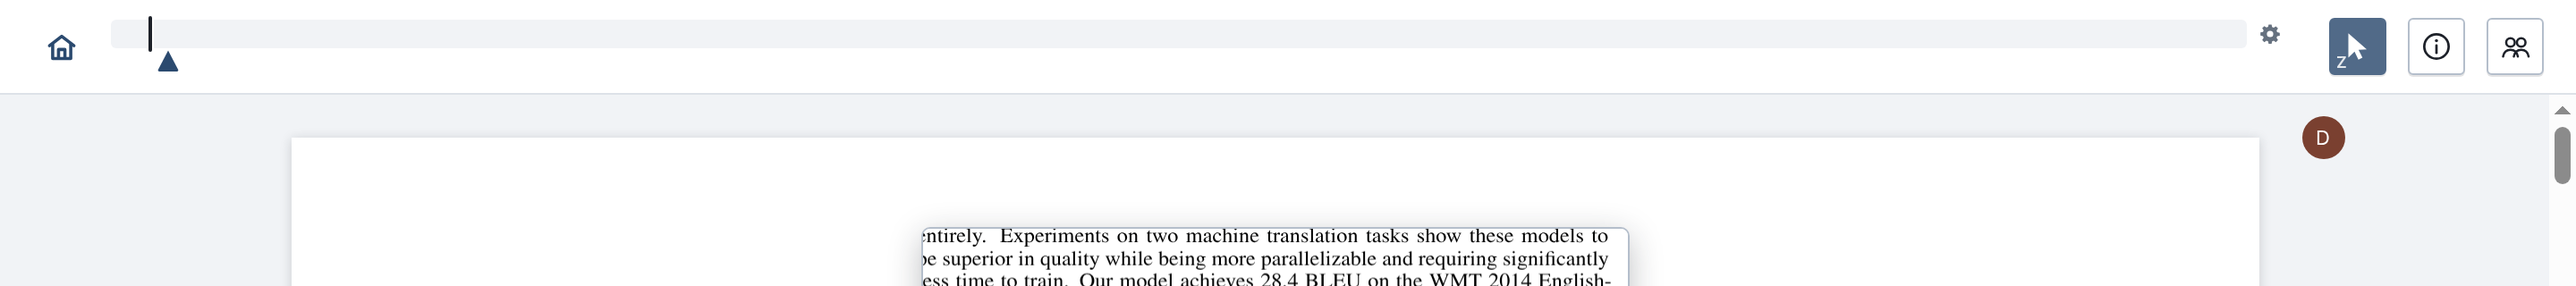
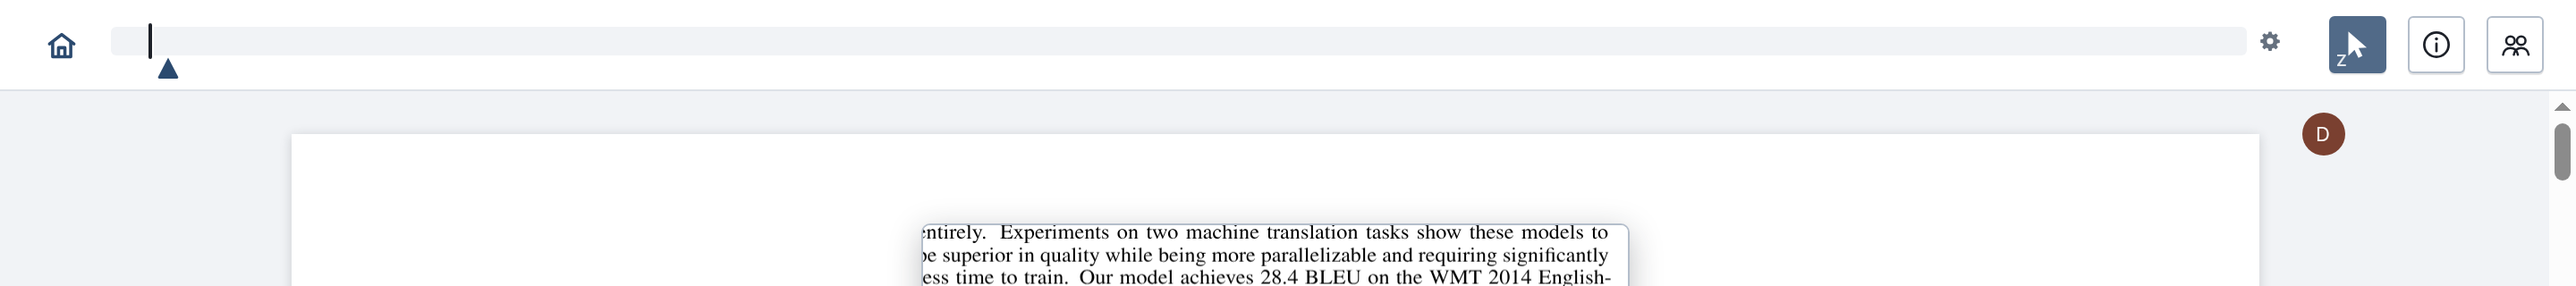
Viewer bar: 5px above and below, not 10, in place of collapsing the tick lane
The navigator's empty upper lane is back as it was; the bar's own vertical
padding is halved instead.

Claude-Session: https://claude.ai/code/session_01PQZzMVaiJTYkEYsSMrH2Bm

diff --git a/viewer/src/styles.js b/viewer/src/styles.js
@@ -179,6 +179,10 @@ ${fileDropStyles}
   position: sticky;
   top: 0;
   flex: none;
+  /* Half the shared bar's 10px above and below: the navigator is already
+     the bar's tallest control and leaves its own room over the strip. Papol
+     macOS keeps its own title-bar padding. */
+  padding-block: 5px;
 }
 
 /* In Papol macOS the bar is the window's title bar: the same height as
@@ -219,9 +223,11 @@ ${fileDropStyles}
   /* Three lanes at one scale, and all the room the desktop title bar has
      to give (40px): the subsections' ticks over the strip, the strip, and
      the anchors under it. Strip to lower lane is six parts to
-     five. An empty upper lane takes no room (below): kept, it was a
-     blank band over the strip that made the bar tall at the top and left
-     the home button and the paper's buttons looking low beside it. */
+     five. The upper lane is kept even when
+     it is empty, because it is also what sets the strip a little below
+     centre: the strip is a solid band and the marks under it are specks on
+     the bar's white, so a pair centred by the ruler reads as sitting
+     high. */
   --nav-top: 10px;
   --nav-strip: 16px;
   --nav-lane: 14px;
@@ -239,10 +245,10 @@ ${fileDropStyles}
 }
 
 /* What is centred in the bar is what can be seen. A lane with nothing in it
-   is not seen, so it takes no room: no ticks, no upper lane; no marks, no
-   lower lane; and with neither the box is only the strip, centred exactly. */
+   is not seen, so it takes no room: no marks, no lower lane; and with
+   neither marks nor ticks the box is only the strip, centred exactly. */
 .navigator-frame.unmarked { --nav-lane: 0px; }
-.navigator-frame.unticked { --nav-top: 0px; }
+.navigator-frame.unmarked.unticked { --nav-top: 0px; }
 .navigator-frame.unmarked .navigator-lane { display: none; }
 
 /* A groove, so the strip reads as one object on the bar's white ground and
@@ -1563,11 +1569,7 @@ body:has(.pages.with-margin) .feedback-button { right: auto; left: 20px; }
    just that measured slower, because text beside the view still repaints.
    Selection and search highlights come back once the view is still. */
 .pages.zooming .text-host { visibility: hidden; }
-/* The selection is shown by the band App paints under it (selectionInk.js),
-   from the first movement of a drag to after the browser's selection is let
-   go. The browser's own paint on top made two shades while dragging, and a
-   math face's span shaded lines above and below its own. */
-.textLayer ::selection { background: transparent; }
+.textLayer ::selection { background: rgba(43, 74, 111, 0.3); }
 .provenance-box {
   position: absolute;
   z-index: 3;
@@ -2073,37 +2075,6 @@ button.ref-link:disabled { cursor: default; opacity: 0.6; }
    bigger than the rule is printed. */
 .paper-clip.telescope { z-index: 20; min-width: 0; min-height: 0; cursor: pointer; }
 .paper-clip.telescope:active { cursor: pointer; }
-/* Where more than one rule goes by the name, each is tagged with its page,
-   on a tab over its top edge. */
-/* The tab and its rule are one piece: the tab stands on the rule's square
-   top-left corner, over the stretch of its top edge it covers. */
-.paper-clip.telescope.tagged { border-top-left-radius: 0; }
-.telescope-tag {
-  position: absolute;
-  z-index: 1;
-  bottom: calc(100% - 1px);
-  left: -1px;
-  padding: 2px 7px;
-  background: var(--card);
-  border: 1px solid var(--line-strong);
-  border-bottom: none;
-  border-radius: 5px 5px 0 0;
-  font: 12px/1.2 var(--font-ui);
-  color: var(--ink-soft);
-  white-space: nowrap;
-}
-.telescope-tag::after {
-  /* The inner corner where the tab's side turns into the rule's top edge,
-     rounded as the outer ones are: the edge drawn as a quarter circle,
-     the card filled in under it. */
-  content: '';
-  position: absolute;
-  left: calc(100% - 1px);
-  bottom: 0;
-  width: 6px;
-  height: 7px;
-  background: radial-gradient(circle at 100% 0, transparent 4.5px, var(--line-strong) 5px, var(--line-strong) 5.5px, var(--card) 6px);
-}
 .paper-clip.selected {
   border-color: var(--accent);
   box-shadow: 0 0 0 2px rgba(43, 74, 111, .2), 0 5px 18px rgba(29, 33, 41, 0.28);
